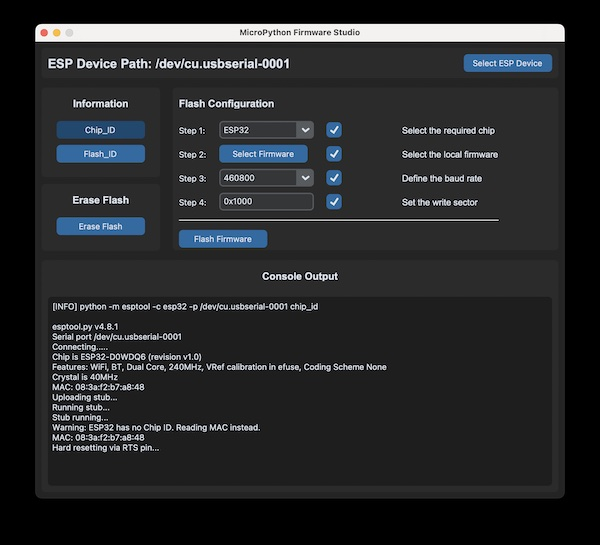
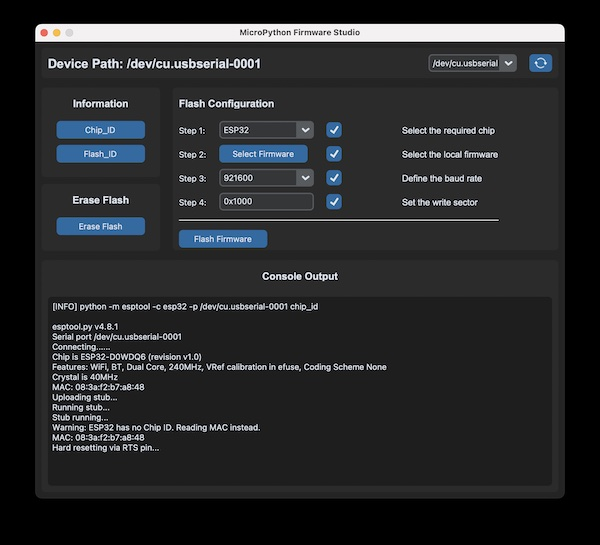
refactor device selection

diff --git a/lib/firmware_studio.py b/lib/firmware_studio.py
@@ -4,73 +4,12 @@ from os.path import expanduser
 from subprocess import run, CalledProcessError
 from tkinter import filedialog, Canvas, Event
 from typing import Optional, List
-from customtkinter import (CTk, CTkToplevel, CTkComboBox, CTkFrame, CTkLabel, CTkButton, CTkTextbox, CTkEntry,
-                           CTkCheckBox)
+from PIL import Image
+from customtkinter import CTk, CTkComboBox, CTkFrame, CTkLabel, CTkButton, CTkTextbox, CTkEntry, CTkCheckBox, CTkImage
 from config.config import CONFIGURED_DEVICES
 
 
 logger = getLogger(__name__)
-
-
-class DeviceSelectionDialog(CTkToplevel):
-    """
-    A dialog for selecting an ESP device from a list of detected devices.
-
-    :ivar _WINDOW_TITLE: The title of the dialog window.
-    :type _WINDOW_TITLE: str
-    :ivar _WINDOW_WIDTH: The width of the dialog window in pixels.
-    :type _WINDOW_WIDTH: int
-    :ivar _WINDOW_HEIGHT: The height of the dialog window in pixels.
-    :type _WINDOW_HEIGHT: int
-    :ivar _DEVICE_SEARCH_PATH: The search path for detecting ESP devices.
-    :type _DEVICE_SEARCH_PATH: str
-    """
-    _WINDOW_TITLE: str = "Select Device"
-    _WINDOW_WIDTH: int = 400
-    _WINDOW_HEIGHT: int = 200
-    _DEVICE_SEARCH_PATH: str = '/dev/cu.usb*'
-
-    def __init__(self, parent: CTk):
-        """
-        A dialog window for selecting an ESP device from a list of available devices.
-
-        :param parent: The parent widget to which this dialog window is attached.
-        :type parent: CTk
-        """
-        super().__init__(parent)
-
-        self.title(self._WINDOW_TITLE)
-        self.geometry(f'{self._WINDOW_WIDTH}x{self._WINDOW_HEIGHT}')
-        self.resizable(False, False)
-        self.selected_device: Optional[str] = None
-
-        CTkLabel(self, text="Select device:").pack(pady=10)
-
-        devices = glob(self._DEVICE_SEARCH_PATH)
-        if not devices:
-            devices = ["No devices found"]
-
-        self.device_combo = CTkComboBox(self, values=devices, width=300)
-        self.device_combo.pack(pady=10)
-        if devices:
-            self.device_combo.set(devices[0])
-
-        select_button = CTkButton(self, text="Select", command=self._on_select)
-        select_button.pack(pady=10)
-
-    def _on_select(self) -> None:
-        """
-        Handles the selection of a device from a dropdown menu, updates the selected
-        device attribute if a valid device is chosen, and destroys the current context.
-
-        :return: None
-        """
-        device = self.device_combo.get()
-
-        if device != "No devices found":
-            self.selected_device = device
-
-        self.destroy()
 
 
 class MicroPythonFirmwareStudio(CTk):
@@ -85,6 +24,8 @@ class MicroPythonFirmwareStudio(CTk):
     :type _FONT_CATEGORY: tuple
     :ivar _FONT_DESCRIPTION: The font style for the description labels.
     :type _FONT_DESCRIPTION: tuple
+    :ivar _DEVICE_SEARCH_PATH: The default search path for device serial ports.
+    :type _DEVICE_SEARCH_PATH: str
     :ivar _FIRMWARE_SEARCH_PATH: The default search path for firmware files.
     :type _FIRMWARE_SEARCH_PATH: str
     :ivar _BAUDRATE_OPTIONS: The list of available baud rate options.
@@ -94,6 +35,7 @@ class MicroPythonFirmwareStudio(CTk):
     _FONT_PATH: tuple = ('Arial', 20, 'bold')
     _FONT_CATEGORY: tuple = ('Arial', 16, 'bold')
     _FONT_DESCRIPTION: tuple = ('Arial', 14)
+    _DEVICE_SEARCH_PATH: str = '/dev/cu.usb*'
     _FIRMWARE_SEARCH_PATH: str = '~/Downloads'
     _BAUDRATE_OPTIONS: list = ["9600", "57600", "74880", "115200", "23400", "460800", "921600", "1500000"]
 
@@ -123,11 +65,16 @@ class MicroPythonFirmwareStudio(CTk):
         self._top_frame = CTkFrame(self)
         self._top_frame.grid(row=0, column=0, columnspan=2, pady=10, padx=10, sticky="ew")
 
-        self._top_label = CTkLabel(self._top_frame, text="Device Path:", font=self._FONT_PATH)
-        self._top_label.pack(side="left", padx=10, pady=10)
+        self._device_path_label = CTkLabel(self._top_frame, text="Device Path:", font=self._FONT_PATH)
+        self._device_path_label.pack(side="left", padx=10, pady=10)
 
-        self._selected_device = CTkButton(self._top_frame, text="Select Device", command=self._set_device)
-        self._selected_device.pack(side="right", padx=10, pady=10)
+        reload_img = CTkImage(light_image=Image.open('img/reload.png'))
+        self._refresh = CTkButton(self._top_frame, image=reload_img, text='', width=30, command=self._search_devices)
+        self._refresh.pack(side="right", padx=10, pady=10)
+
+        self._device_dropdown = CTkComboBox(self._top_frame, command=self._set_device)
+        self._device_dropdown.pack(side="right", padx=10, pady=10)
+        self._device_dropdown.bind("<Key>", lambda e: "break")
 
         # Left Top Frame
         self._left_top_frame = CTkFrame(self)
@@ -242,6 +189,33 @@ class MicroPythonFirmwareStudio(CTk):
         self._console_text = CTkTextbox(self._bottom_frame, width=800, height=300)
         self._console_text.pack(padx=10, pady=10, fill="both", expand=True)
 
+        # search for devices on the start
+        self._search_devices()
+
+    def _search_devices(self) -> None:
+        """
+        Updates the device dropdown menu with a list of available devices. If there are no
+        connected devices, sets "No devices found" as the only dropdown value.
+
+        :return: None
+        """
+        current_selection = self._device_dropdown.get()
+        devices = glob(self._DEVICE_SEARCH_PATH)
+
+        if not devices:
+            devices = ["No devices found"]
+        else:
+            devices.insert(0, "Select Device")
+
+        debug(f"Devices: {devices}")
+        self._device_dropdown.configure(values=devices)
+
+        if current_selection in devices:
+            self._device_dropdown.set(current_selection)
+        else:
+            self._device_dropdown.set(devices[0])
+            self._set_device(None)
+
     def _delete_console(self) -> None:
         """
         Deletes all the content from the console text box.
@@ -265,22 +239,24 @@ class MicroPythonFirmwareStudio(CTk):
             error_msg = e.stderr if e.stderr else str(e)
             self._console_text.insert("end", f'[ERROR]: {error_msg}')
 
-    def _set_device(self) -> None:
+    def _set_device(self, selected_device: Optional[str]) -> None:
         """
         Handles the selection of a device using a device selection dialog, updates the
         device path, and modifies the configuration label to display the new device path.
 
+        :param selected_device: The selected device path as a string.
+        :type selected_device: Optional[str]
         :return: None
         """
-        dialog = DeviceSelectionDialog(self)
-        self.wait_window(dialog)
+        debug(f"Selected device: {selected_device}")
 
-        selected_device = dialog.selected_device
-
-        if selected_device:
+        if selected_device and selected_device not in ("Select Device", "No devices found"):
             debug(f"Selected device: {selected_device}")
             self.__device_path = selected_device
-            self._top_label.configure(text=f'Device Path: {self.__device_path}')
+            self._device_path_label.configure(text=f"Device Path: {self.__device_path}")
+        else:
+            self.__device_path = None
+            self._device_path_label.configure(text="Device Path:")
 
     def _set_chip(self, selection: str) -> None:
         """
